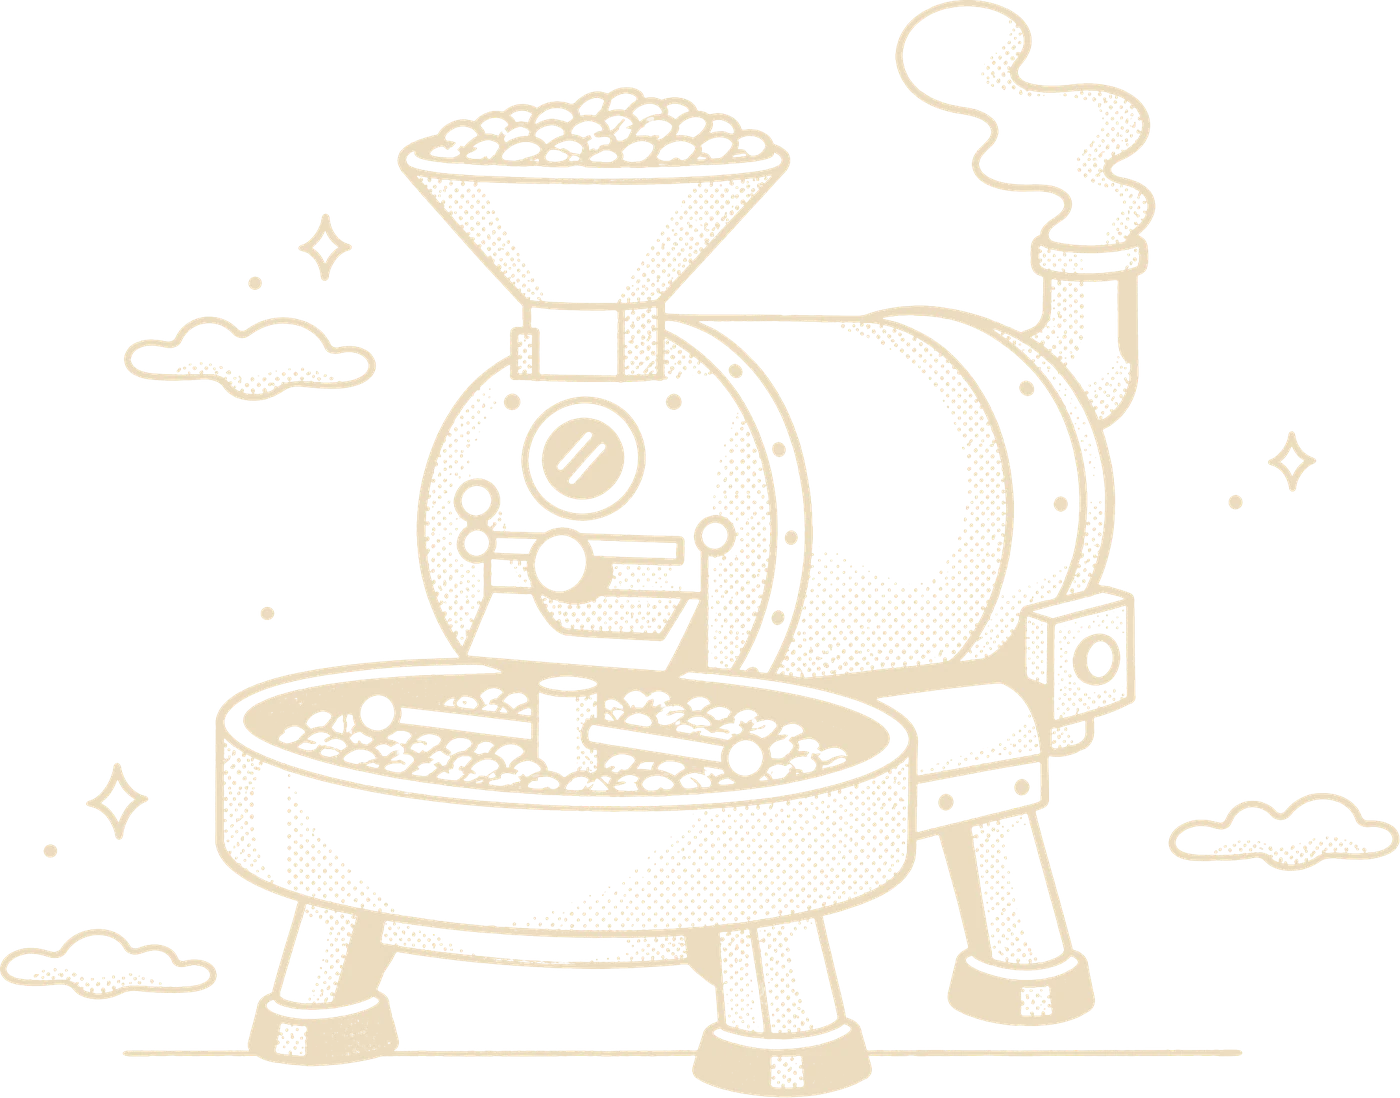
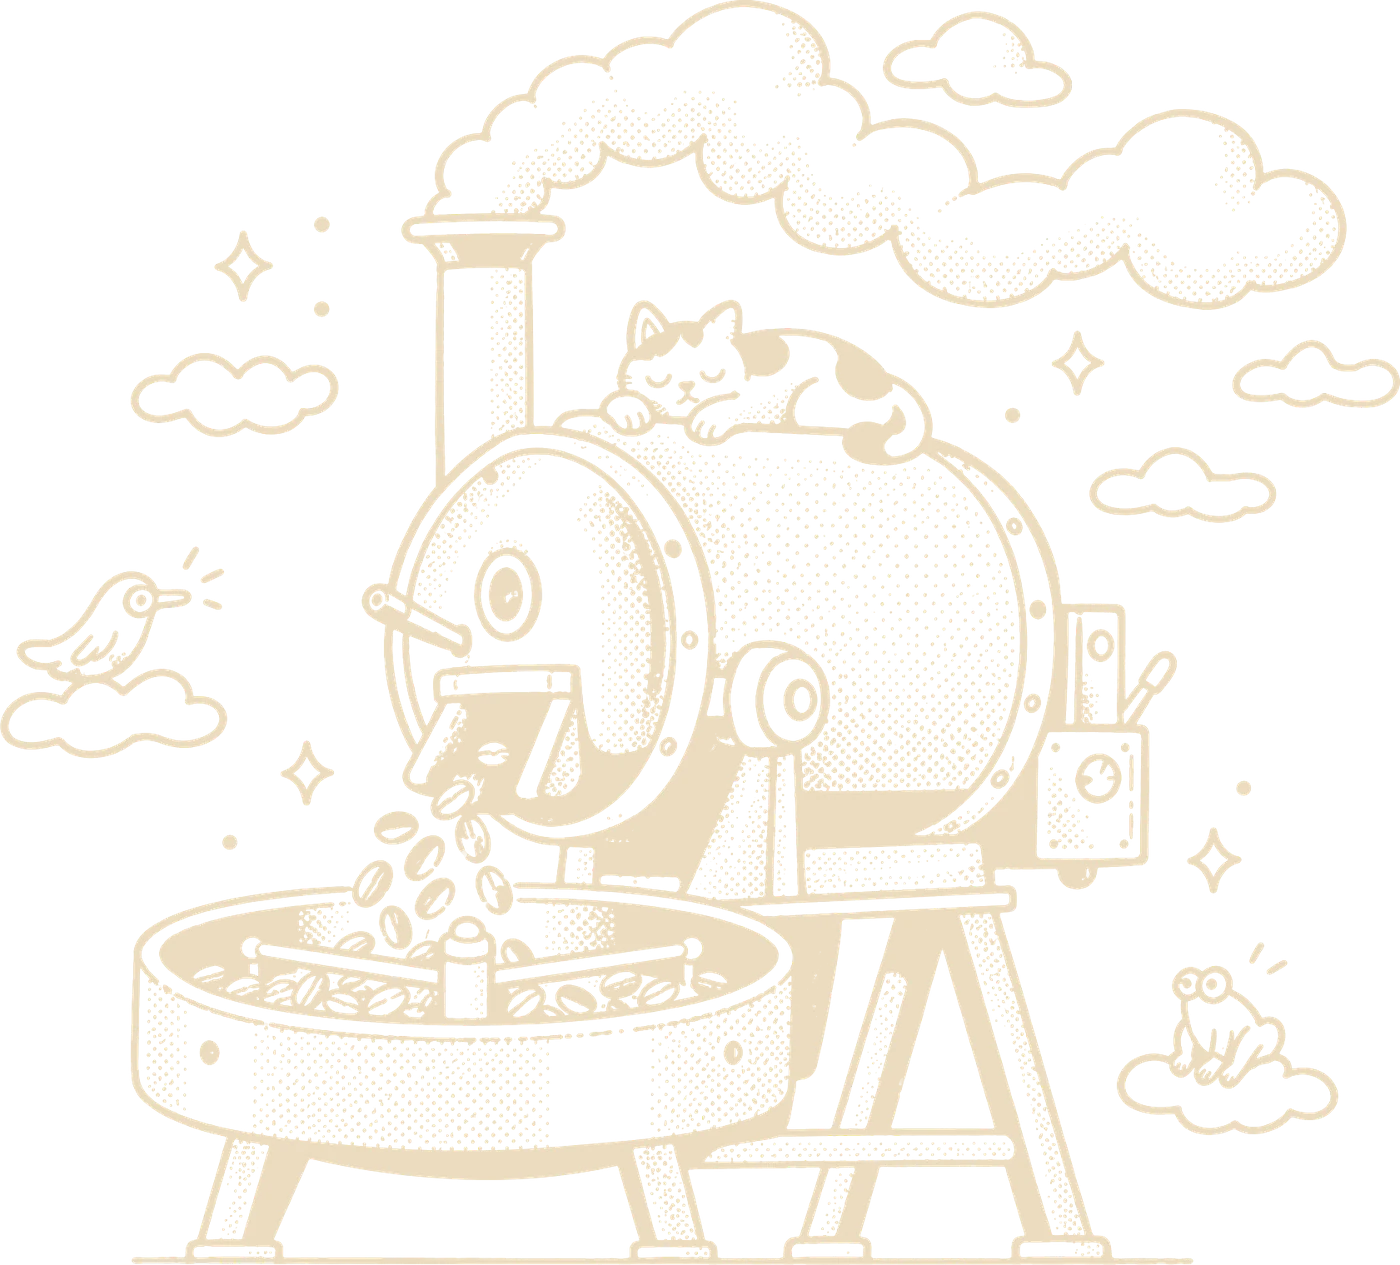
Ink version redrawn from scratch in the surf-ink style (new compositions, not traced)

diff --git a/tasks/todo.md b/tasks/todo.md
@@ -38,7 +38,7 @@ One page, dark mode, static HTML/CSS (no build). Preview: `python3 -m http.serve
 - [x] Style references and trials in `references/` (kept out of git)
 
 ## Done (2026-10-15, B&W variations)
-- [x] Illustrations and flavour surfaces redrawn twice on Higgsfield: Ink (style A, line art) and B&W (current 70s style)
+- [x] Ink: brand-new illustrations and flavour surfaces drawn from style reference A (not traced); B&W: the current 70s art redrawn in black and white
 - [x] Colour / Ink / B&W switch at the bottom of both pages (`art-switch.js`, `.art-switch`); remove before launch
 
 ## Waiting on Maria
